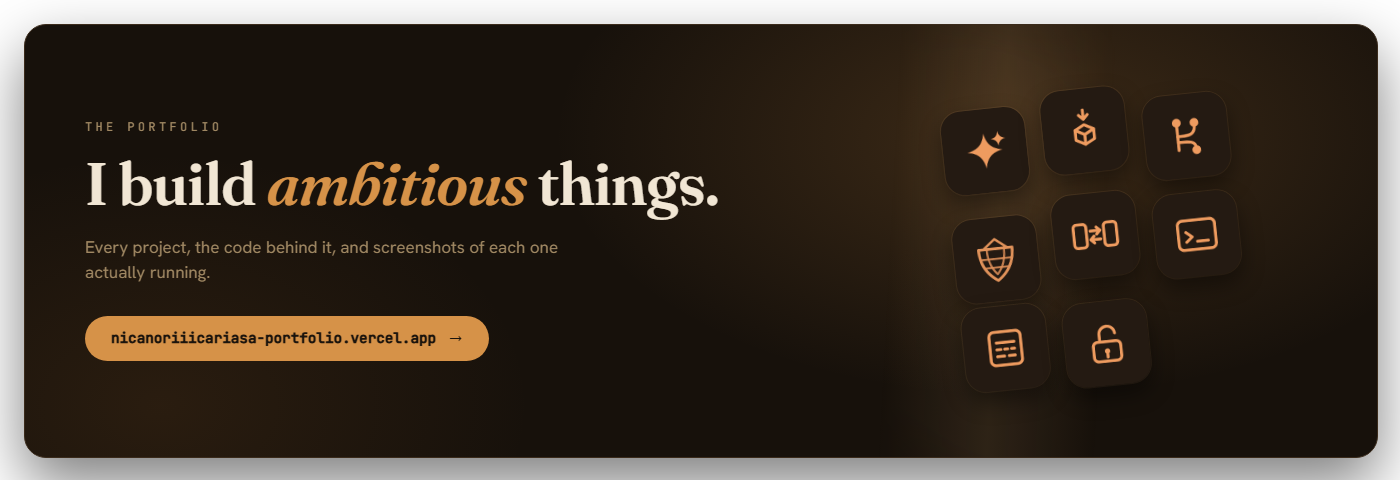
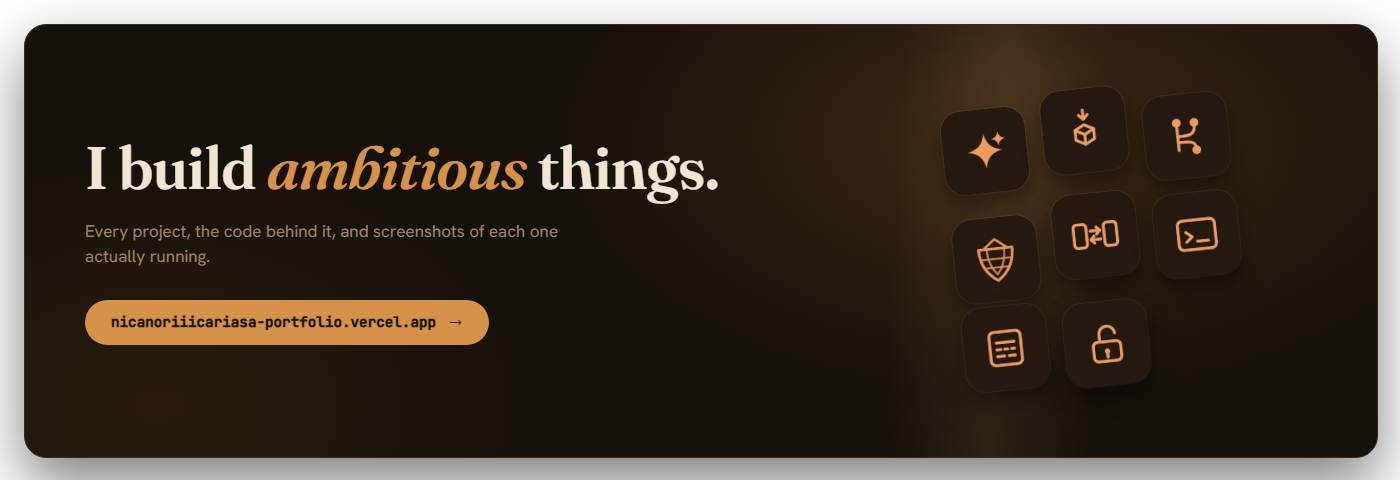
docs(readme): stop the card repeating its own section heading
'The portfolio' and the blurb each appeared twice, 40px apart - once as
markdown and again inside the card art.

Claude-Session: https://claude.ai/code/session_015fMSsraujhXdZejttxRoHo

Changed region(s): [[0.0614, 0.25, 0.5221, 0.4688], [0.0614, 0.625, 0.3686, 0.75], [0.0614, 0.4688, 0.3993, 0.5938]]

diff --git a/README.md b/README.md
@@ -145,8 +145,6 @@ Composable text and file obfuscation toolkit with a GUI and seeded keyfiles.<br>
 
 ## The portfolio
 
-Every project above is a repo you can clone and read.
-
 <a href="https://nicanoriiicariasa-portfolio.vercel.app/"><img src="https://raw.githubusercontent.com/uukjtisa/uukjtisa/main/assets/portfolio-card.png" width="780" alt="nicanoriiicariasa-portfolio.vercel.app"></a>
 
 <br>
